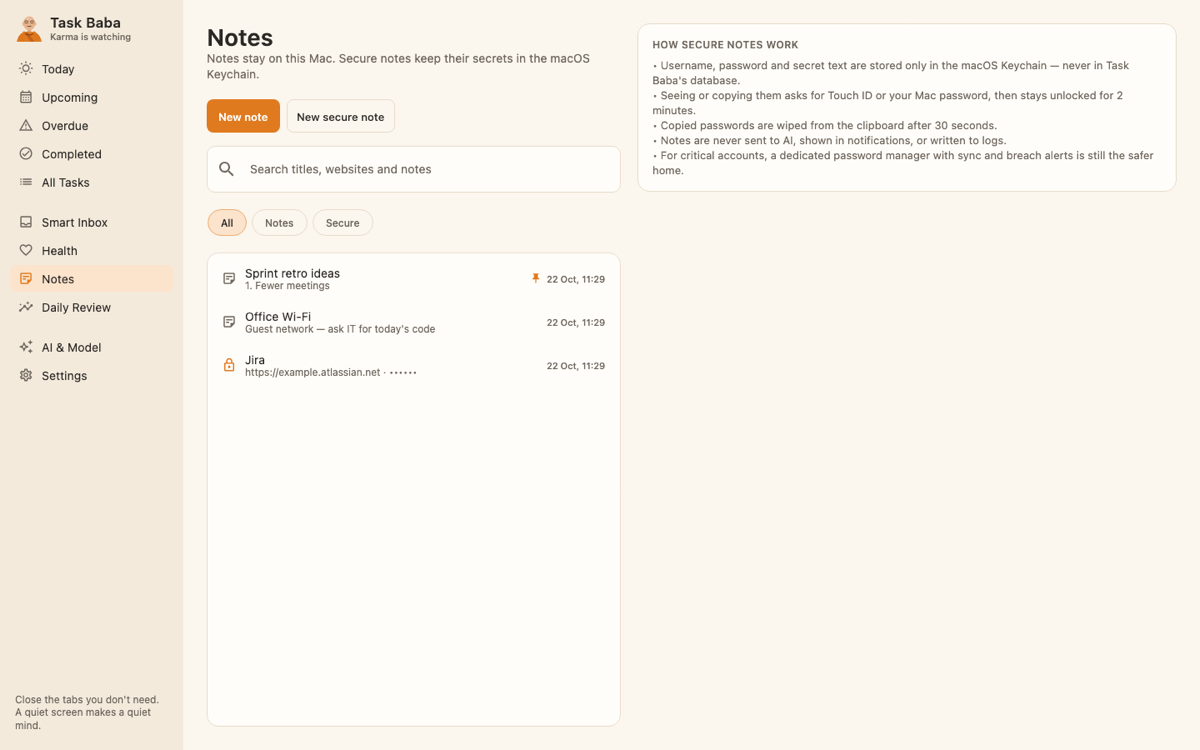
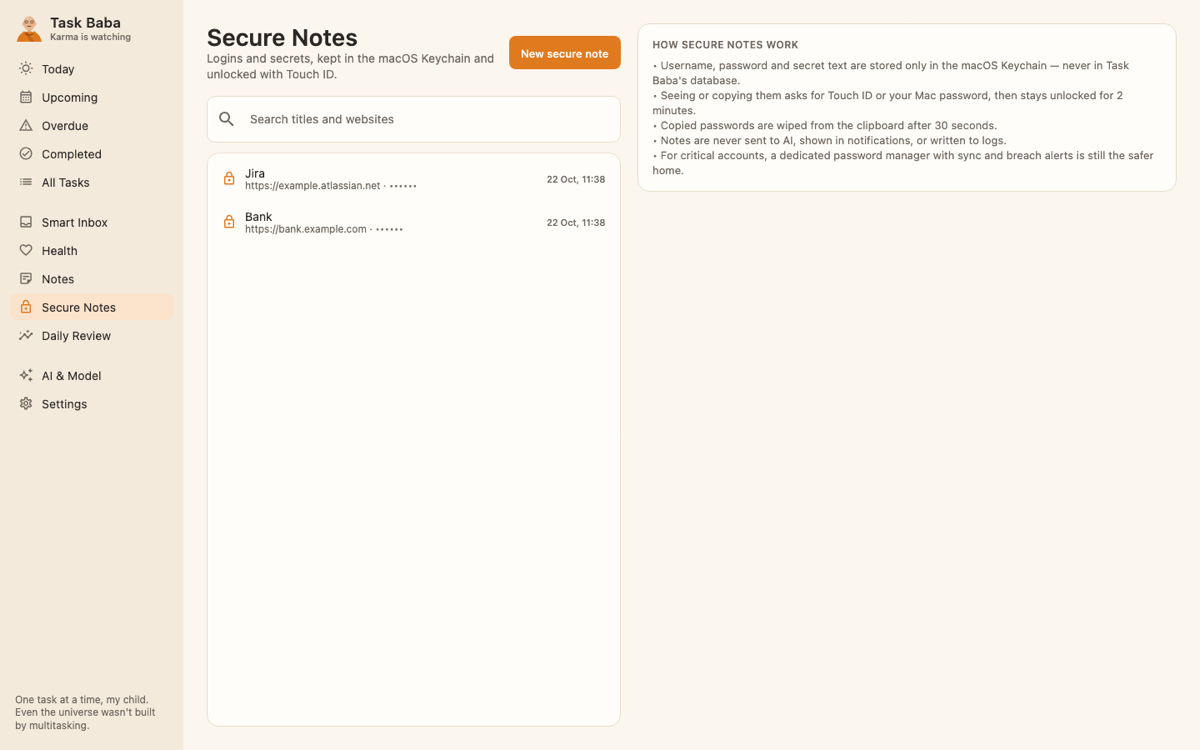
Separate Notes and Secure Notes sections

diff --git a/app/src/main/kotlin/app/taskbaba/app/ui/notes/NotesScreen.kt b/app/src/main/kotlin/app/taskbaba/app/ui/notes/NotesScreen.kt
@@ -80,35 +80,36 @@ private sealed interface NoteSelection {
 }
 
 @Composable
-fun NotesScreen(app: AppController, notes: NotesService) {
+/** One section per kind: [NoteKind.PLAIN] for simple notes, [NoteKind.SECURE] for Keychain-protected ones. */
+fun NotesScreen(app: AppController, notes: NotesService, kind: NoteKind) {
     val all by notes.observe().collectAsState(initial = notes.all())
-    var query by remember { mutableStateOf("") }
-    var filter by remember { mutableStateOf<NoteKind?>(null) }
-    var selection by remember { mutableStateOf<NoteSelection?>(null) }
-    val shown = notes.search(all, query, filter)
+    var query by remember(kind) { mutableStateOf("") }
+    var selection by remember(kind) { mutableStateOf<NoteSelection?>(null) }
+    val ofKind = all.filter { it.kind == kind }
+    val shown = notes.search(ofKind, query, kind)
+    val secure = kind == NoteKind.SECURE
 
     Row(Modifier.fillMaxSize().padding(28.dp), horizontalArrangement = Arrangement.spacedBy(20.dp)) {
         Column(Modifier.weight(1f).widthIn(min = 300.dp), verticalArrangement = Arrangement.spacedBy(12.dp)) {
-            ScreenHeader("Notes", "Notes stay on this Mac. Secure notes keep their secrets in the macOS Keychain.")
-            Row(horizontalArrangement = Arrangement.spacedBy(8.dp)) {
-                PrimaryButton("New note", { selection = NoteSelection.New(NoteKind.PLAIN) })
-                SecondaryButton("New secure note", { selection = NoteSelection.New(NoteKind.SECURE) })
+            ScreenHeader(
+                if (secure) "Secure Notes" else "Notes",
+                if (secure) "Logins and secrets, kept in the macOS Keychain and unlocked with Touch ID." else "Simple notes, saved on this Mac.",
+            ) {
+                PrimaryButton(if (secure) "New secure note" else "New note", { selection = NoteSelection.New(kind) })
             }
             OutlinedTextField(
-                query, { query = it }, singleLine = true, placeholder = { Text("Search titles, websites and notes", color = Baba.colors.textMuted) },
+                query, { query = it }, singleLine = true, placeholder = { Text(if (secure) "Search titles and websites" else "Search notes", color = Baba.colors.textMuted) },
                 leadingIcon = { Icon(Icons.Outlined.Search, null, tint = Baba.colors.textMuted) },
                 modifier = Modifier.fillMaxWidth(), shape = RoundedCornerShape(10.dp), colors = babaFieldColors(),
             )
-            Row(horizontalArrangement = Arrangement.spacedBy(6.dp)) {
-                SmallChip("All", filter == null) { filter = null }
-                SmallChip("Notes", filter == NoteKind.PLAIN) { filter = NoteKind.PLAIN }
-                SmallChip("Secure", filter == NoteKind.SECURE) { filter = NoteKind.SECURE }
-            }
             BabaCard(Modifier.weight(1f), padding = 6.dp) {
                 if (shown.isEmpty()) {
                     Text(
-                        if (all.isEmpty()) "No notes yet. Jot something down, or save a login as a secure note."
-                        else "No notes match.",
+                        when {
+                            ofKind.isNotEmpty() -> "No notes match."
+                            secure -> "No secure notes yet. Save a login, a PIN or recovery codes here."
+                            else -> "No notes yet. Press New note and start writing."
+                        },
                         Modifier.padding(12.dp), style = MaterialTheme.typography.bodyMedium, color = Baba.colors.textMuted,
                     )
                 }
@@ -121,7 +122,12 @@ fun NotesScreen(app: AppController, notes: NotesService) {
         }
         Box(Modifier.weight(1.3f).widthIn(min = 360.dp)) {
             when (val sel = selection) {
-                null -> BabaCard {
+                null -> if (!secure) BabaCard {
+                    Text(
+                        "Pick a note on the left, or press New note. Simple notes are stored unencrypted on this Mac — keep passwords in Secure Notes.",
+                        style = MaterialTheme.typography.bodyMedium, color = Baba.colors.textMuted,
+                    )
+                } else BabaCard {
                     SectionTitle("How secure notes work")
                     Text(
                         "• Username, password and secret text are stored only in the macOS Keychain — never in Task Baba's database.\n" +

diff --git a/app/src/test/kotlin/app/taskbaba/app/ui/notes/NotesUiTest.kt b/app/src/test/kotlin/app/taskbaba/app/ui/notes/NotesUiTest.kt
@@ -1,5 +1,7 @@
 package app.taskbaba.app.ui.notes
 
+import androidx.compose.runtime.getValue
+import androidx.compose.runtime.setValue
 import androidx.compose.ui.ImageComposeScene
 import androidx.compose.ui.test.ExperimentalTestApi
 import androidx.compose.ui.test.hasSetTextAction
@@ -62,7 +64,7 @@ class NotesUiTest {
 
     @Test fun createPlainNote() = runComposeUiTest {
         val s = Setup()
-        setContent { BabaTheme { NotesScreen(s.app, s.notes) } }
+        setContent { BabaTheme { NotesScreen(s.app, s.notes, NoteKind.PLAIN) } }
         onNodeWithText("New note").performClick()
         waitForIdle()
         onAllNodes(hasSetTextAction() and hasText("Title")).onFirst().performTextInput("Office Wi-Fi")
@@ -74,7 +76,7 @@ class NotesUiTest {
 
     @Test fun createSecureNoteThenItIsLockedAndUnlocksWithAuth() = runComposeUiTest {
         val s = Setup()
-        setContent { BabaTheme { NotesScreen(s.app, s.notes) } }
+        setContent { BabaTheme { NotesScreen(s.app, s.notes, NoteKind.SECURE) } }
         onNodeWithText("New secure note").performClick()
         waitForIdle()
         onAllNodes(hasSetTextAction() and hasText("Title")).onFirst().performTextInput("Bank")
@@ -100,7 +102,7 @@ class NotesUiTest {
     @Test fun cancelledAuthKeepsSecretsHidden() = runComposeUiTest {
         val s = Setup(DeviceAuthResult.CANCELLED)
         val n = s.notes.create(NoteDraft(NoteKind.SECURE, "Server", secure = SecureFields("root", "topsecret"))).getOrThrow()
-        setContent { BabaTheme { NotesScreen(s.app, s.notes) } }
+        setContent { BabaTheme { NotesScreen(s.app, s.notes, NoteKind.SECURE) } }
         onNodeWithText("Server").performClick()
         waitForIdle()
         onNodeWithText("Unlock with Touch ID").performClick()
@@ -112,20 +114,35 @@ class NotesUiTest {
         assertTrue(s.notes.readSecrets(n.id).isFailure)
     }
 
+    @Test fun eachSectionShowsOnlyItsOwnKind() = runComposeUiTest {
+        val s = Setup()
+        s.notes.create(NoteDraft(NoteKind.PLAIN, "Groceries", "dal, rice"))
+        s.notes.create(NoteDraft(NoteKind.SECURE, "Netflix", secure = SecureFields("me", "pw")))
+        var kind by androidx.compose.runtime.mutableStateOf(NoteKind.PLAIN)
+        setContent { BabaTheme { NotesScreen(s.app, s.notes, kind) } }
+        onNodeWithText("Groceries").assertExists()
+        assertTrue(onAllNodes(hasText("Netflix")).fetchSemanticsNodes().isEmpty())
+        kind = NoteKind.SECURE
+        waitForIdle()
+        onNodeWithText("Netflix").assertExists()
+        assertTrue(onAllNodes(hasText("Groceries")).fetchSemanticsNodes().isEmpty())
+    }
+
     @Test fun renderNotesScreens() {
         val s = Setup()
         s.notes.create(NoteDraft(NoteKind.PLAIN, "Sprint retro ideas", "1. Fewer meetings\n2. Chai breaks are sacred", pinned = true))
         s.notes.create(NoteDraft(NoteKind.PLAIN, "Office Wi-Fi", "Guest network — ask IT for today's code"))
         s.notes.create(NoteDraft(NoteKind.SECURE, "Jira", url = "https://example.atlassian.net", secure = SecureFields("me@example.com", "Example-Passw0rd!")))
-        s.app.screen = Screen.NOTES
+        s.notes.create(NoteDraft(NoteKind.SECURE, "Bank", url = "https://bank.example.com", secure = SecureFields("me", "Example-Passw0rd!")))
         val out = Paths.get("build", "screenshots").also { Files.createDirectories(it) }
-        for (dark in listOf(false, true)) {
+        for ((screen, kind) in listOf(Screen.NOTES to NoteKind.PLAIN, Screen.SECURE_NOTES to NoteKind.SECURE)) for (dark in listOf(false, true)) {
+            s.app.screen = screen
             ImageComposeScene(1440, 900, Density(1f)) {
-                BabaTheme(dark) { MainWindowContent(s.app, SidebarExtras()) { NotesScreen(s.app, s.notes) } }
+                BabaTheme(dark) { MainWindowContent(s.app, SidebarExtras()) { NotesScreen(s.app, s.notes, kind) } }
             }.use { scene ->
                 scene.render(0)
                 val bytes = scene.render(500_000_000).encodeToData(EncodedImageFormat.PNG)!!.bytes
-                Files.write(out.resolve("notes-${if (dark) "dark" else "light"}.png"), bytes)
+                Files.write(out.resolve("${screen.name.lowercase()}-${if (dark) "dark" else "light"}.png"), bytes)
             }
         }
     }

diff --git a/app/src/main/kotlin/app/taskbaba/app/Main.kt b/app/src/main/kotlin/app/taskbaba/app/Main.kt
@@ -37,6 +37,7 @@ import app.taskbaba.core.data.KvStore
 import app.taskbaba.core.integrations.FollowUpTaskCreator
 import app.taskbaba.core.integrations.InboxResponseOutcome
 import app.taskbaba.core.integrations.IntegrationsModule
+import app.taskbaba.core.notes.NoteKind
 import app.taskbaba.core.notes.NotesService
 import app.taskbaba.app.ui.notes.NotesScreen
 import app.taskbaba.core.platform.NotificationResponse
@@ -156,6 +157,7 @@ fun main() {
                     listOf(Screen.TODAY, Screen.UPCOMING, Screen.OVERDUE, Screen.COMPLETED, Screen.ALL, Screen.INBOX, Screen.HEALTH, Screen.NOTES, Screen.REVIEW)
                         .forEachIndexed { i, s -> Item(s.title, shortcut = KeyShortcut(Key.Companion.number(i + 1), meta = true), onClick = { app.open(s) }) }
                     Separator()
+                    Item("Secure Notes", onClick = { app.open(Screen.SECURE_NOTES) })
                     Item("AI & Model", onClick = { app.open(Screen.AI) })
                     Item("Settings…", shortcut = KeyShortcut(Key.Comma, meta = true), onClick = { app.open(Screen.SETTINGS) })
                 }
@@ -173,7 +175,8 @@ fun main() {
                         Screen.UPCOMING, Screen.OVERDUE, Screen.COMPLETED, Screen.ALL -> TaskListScreen(app, screen)
                         Screen.INBOX -> InboxScreen(container.integrations, app::openUrl, rememberTasks(app), onOpenSettings = { app.open(Screen.SETTINGS) })
                         Screen.HEALTH -> HealthScreen(app)
-                        Screen.NOTES -> NotesScreen(app, container.notes)
+                        Screen.NOTES -> NotesScreen(app, container.notes, NoteKind.PLAIN)
+                        Screen.SECURE_NOTES -> NotesScreen(app, container.notes, NoteKind.SECURE)
                         Screen.REVIEW -> ReviewScreen(app)
                         Screen.AI -> AiScreen(container.ai)
                         Screen.SETTINGS -> SettingsScreen(app) { IntegrationsSettings(container.integrations) }

diff --git a/app/src/main/kotlin/app/taskbaba/app/ui/shell/MainWindowContent.kt b/app/src/main/kotlin/app/taskbaba/app/ui/shell/MainWindowContent.kt
@@ -23,6 +23,7 @@ import androidx.compose.material.icons.outlined.FavoriteBorder
 import androidx.compose.material.icons.outlined.Inbox
 import androidx.compose.material.icons.outlined.Insights
 import androidx.compose.material.icons.outlined.List
+import androidx.compose.material.icons.outlined.Lock
 import androidx.compose.material.icons.outlined.Settings
 import androidx.compose.material.icons.outlined.StickyNote2
 import androidx.compose.material.icons.outlined.WarningAmber
@@ -99,6 +100,7 @@ private fun Sidebar(app: AppController, extras: SidebarExtras) {
         Item(app, Screen.INBOX, Icons.Outlined.Inbox, extras.inboxCount.takeIf { it > 0 })
         Item(app, Screen.HEALTH, Icons.Outlined.FavoriteBorder, null)
         Item(app, Screen.NOTES, Icons.Outlined.StickyNote2, null)
+        Item(app, Screen.SECURE_NOTES, Icons.Outlined.Lock, null)
         Item(app, Screen.REVIEW, Icons.Outlined.Insights, null)
         Spacer(Modifier.height(12.dp))
         Item(app, Screen.AI, Icons.Outlined.AutoAwesome, null)

diff --git a/app/src/main/kotlin/app/taskbaba/app/AppController.kt b/app/src/main/kotlin/app/taskbaba/app/AppController.kt
@@ -30,6 +30,7 @@ enum class Screen(val title: String, val view: TaskView? = null) {
     INBOX("Smart Inbox"),
     HEALTH("Health"),
     NOTES("Notes"),
+    SECURE_NOTES("Secure Notes"),
     REVIEW("Daily Review"),
     AI("AI & Model"),
     SETTINGS("Settings"),

diff --git a/README.md b/README.md
@@ -23,7 +23,7 @@ Task Baba is a native-feeling macOS productivity and health companion with a fun
 - **Health breaks** — water, eye breaks (20-20-20), stretching, walking, meals, rest. Per-reminder enable, interval or fixed meal times, active hours, weekdays, snooze length, sound. Actions: **Done**, **Remind me later**, **Skip**, **Turn off**. Only *your* confirmation counts as done — a delivered reminder never does.
 - **Baba's personality engine** — Friendly, Savage, or Adaptive (gets more direct after repeated postponements). 170+ original lines, de-duplicated across restarts, with cooldowns. Mute him, disable sarcasm, set quiet hours, cap notifications per hour. He never shames you about health or breaks.
 - **Animated Baba** — a poseable, original character with **40 animations**: he drinks water at water breaks, rests his eyes, stretches, walks, eats, sips chai, taps his watch when a deadline nears, facepalms after the fourth postponement, dances when an important task is done and throws confetti when all priorities are finished. Between events he breathes, blinks, lip-syncs new lines, looks around, counts mala beads, and dozes off late at night. Smoothness is selectable (30 / 40 / 60 fps, default 40); reduced motion shows each move's key pose instead. Preview every move in **Settings → Baba's moves**.
-- **Notes & secure notes** — quick local notes (searchable, pinnable, with a link), plus **secure notes for logins and credentials**: the username, password and secret text are stored only in the **macOS Keychain** (never in Task Baba's database), viewing or editing them asks for **Touch ID or your Mac password** and stays unlocked for 2 minutes, copied passwords are wiped from the clipboard after 30 seconds, and there's a strong-password generator. Notes are never sent to AI, shown in notifications or logged. (For critical accounts, a dedicated password manager with sync and breach alerts is still the safer home.)
+- **Notes** and **Secure Notes** — two sidebar sections. **Notes** holds simple local notes (searchable, pinnable, with a link). **Secure Notes** is for logins and credentials: the username, password and secret text are stored only in the **macOS Keychain** (never in Task Baba's database), viewing or editing them asks for **Touch ID or your Mac password** and stays unlocked for 2 minutes, copied passwords are wiped from the clipboard after 30 seconds, and there's a strong-password generator. Notes are never sent to AI, shown in notifications or logged. (For critical accounts, a dedicated password manager with sync and breach alerts is still the safer home.)
 - **Menu bar companion** — today's progress, top priorities (click to complete), quick add, next reminder, snooze controls, AI status, floating-Baba toggle, open window, quit. The app keeps running when the window is closed.
 - **Floating Baba** (optional) — small always-on-top window, draggable, never steals keyboard focus, remembers its position, clamps to connected displays, respects reduced motion.
 - **Daily review & stats** — planned vs completed, completion %, overdue count, Critical/High completion, MIT, current and best streak, health actions confirmed vs reminders shown, 7-day view, history (deletable), and Baba's end-of-day summary. Finished days are frozen into history at rollover; nothing is deleted by the daily reset.
@@ -142,7 +142,7 @@ Items are classified **Critical / High / Normal / Low / Noise** by your rules fi
 ## Testing
 
 ```bash
-./gradlew test                                  # 165 JVM tests
+./gradlew test                                  # 166 JVM tests
 python3 cloud/proxy/test_taskbaba_proxy.py      # proxy auth/limits tests
 ```
 

diff --git a/CHANGELOG.md b/CHANGELOG.md
@@ -1,5 +1,9 @@
 # Changelog
 
+## 1.2.1 — 2026-10-22
+
+- Notes are now two sidebar sections: **Notes** for simple notes and **Secure Notes** for Keychain-protected logins and secrets (View menu → Secure Notes, too).
+
 ## 1.2.0 — 2026-10-22
 
 - **Notes**: a new sidebar section for quick notes — search, pin, optional link.
